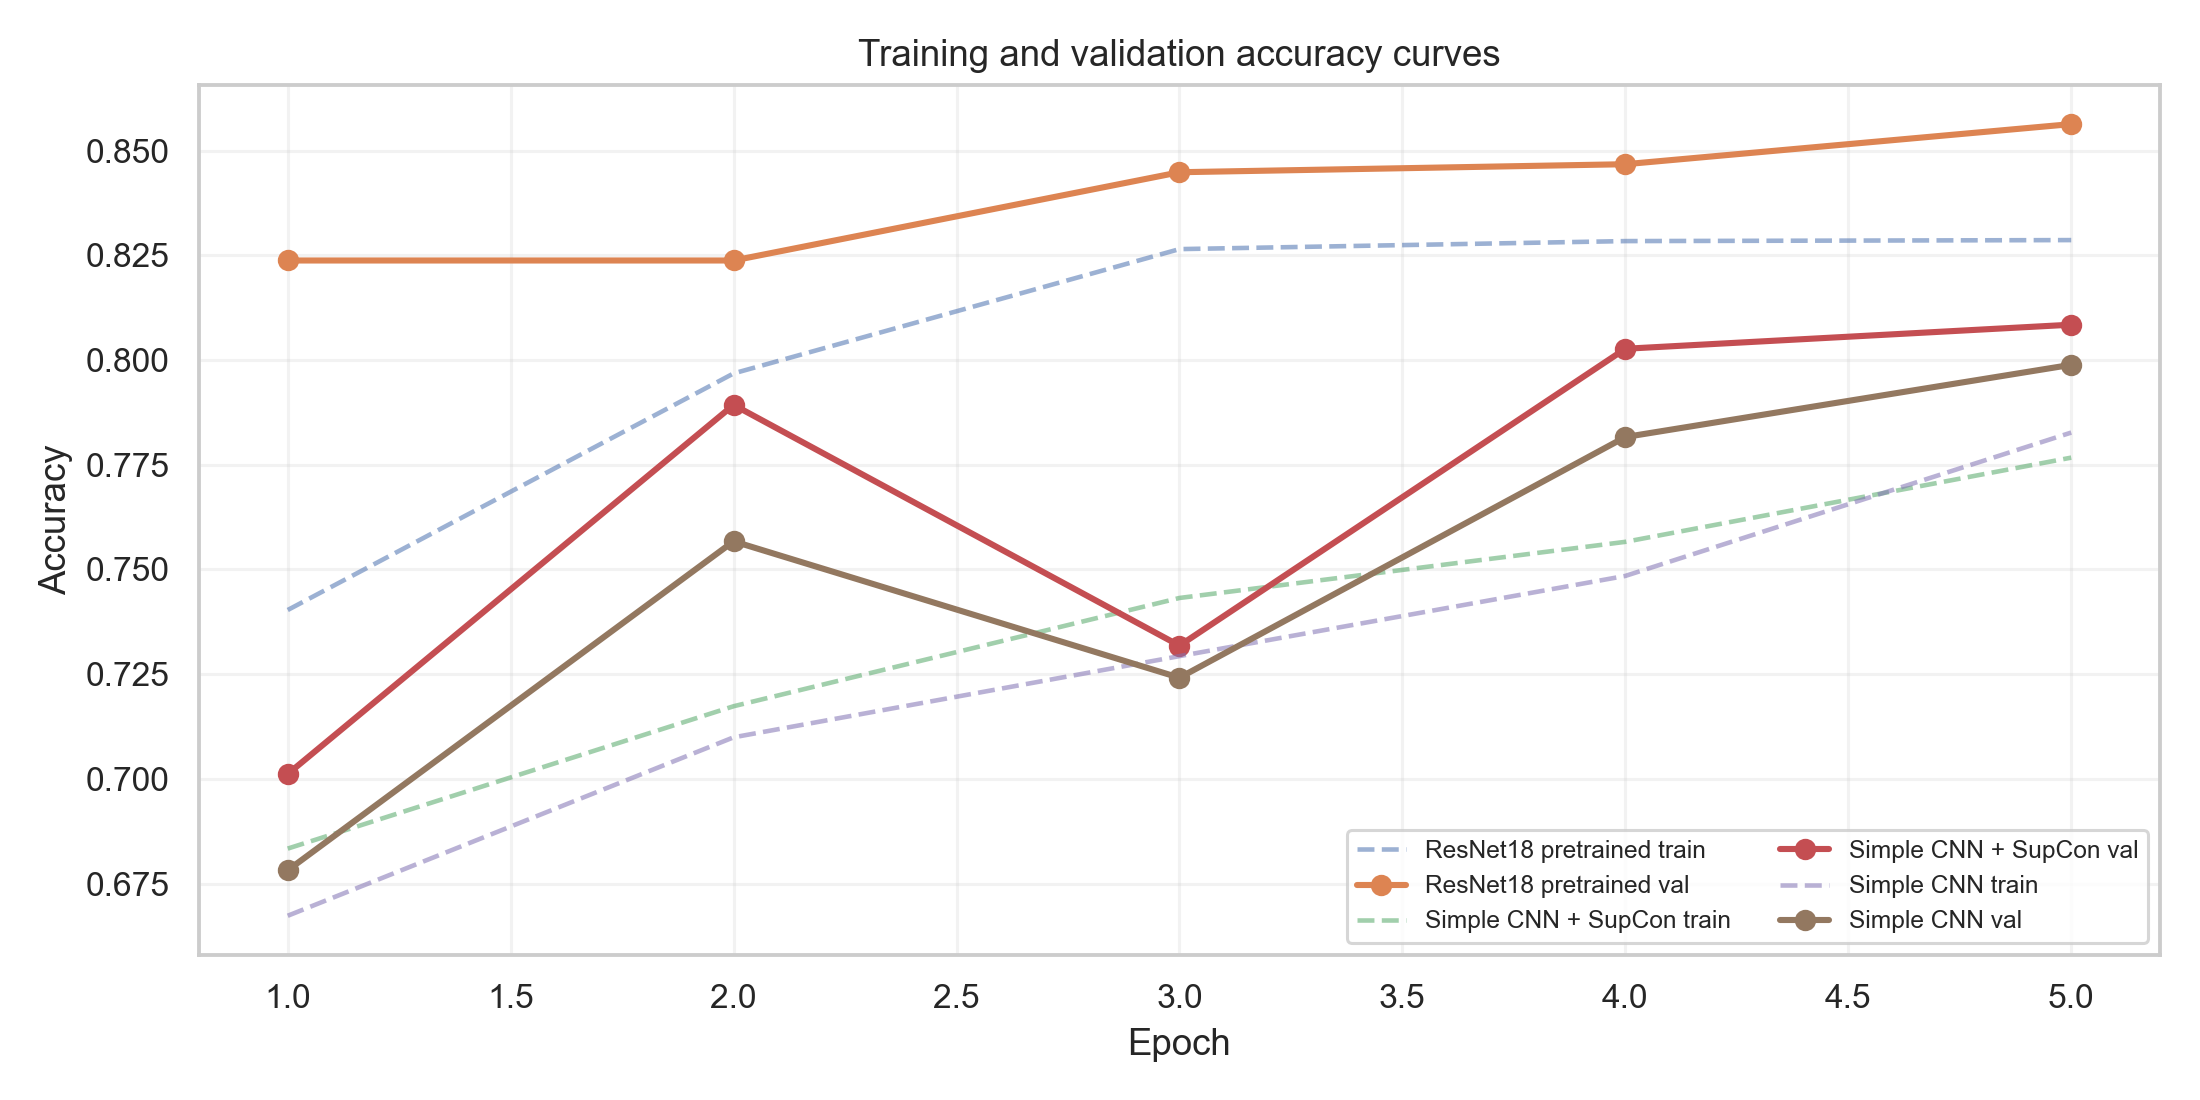
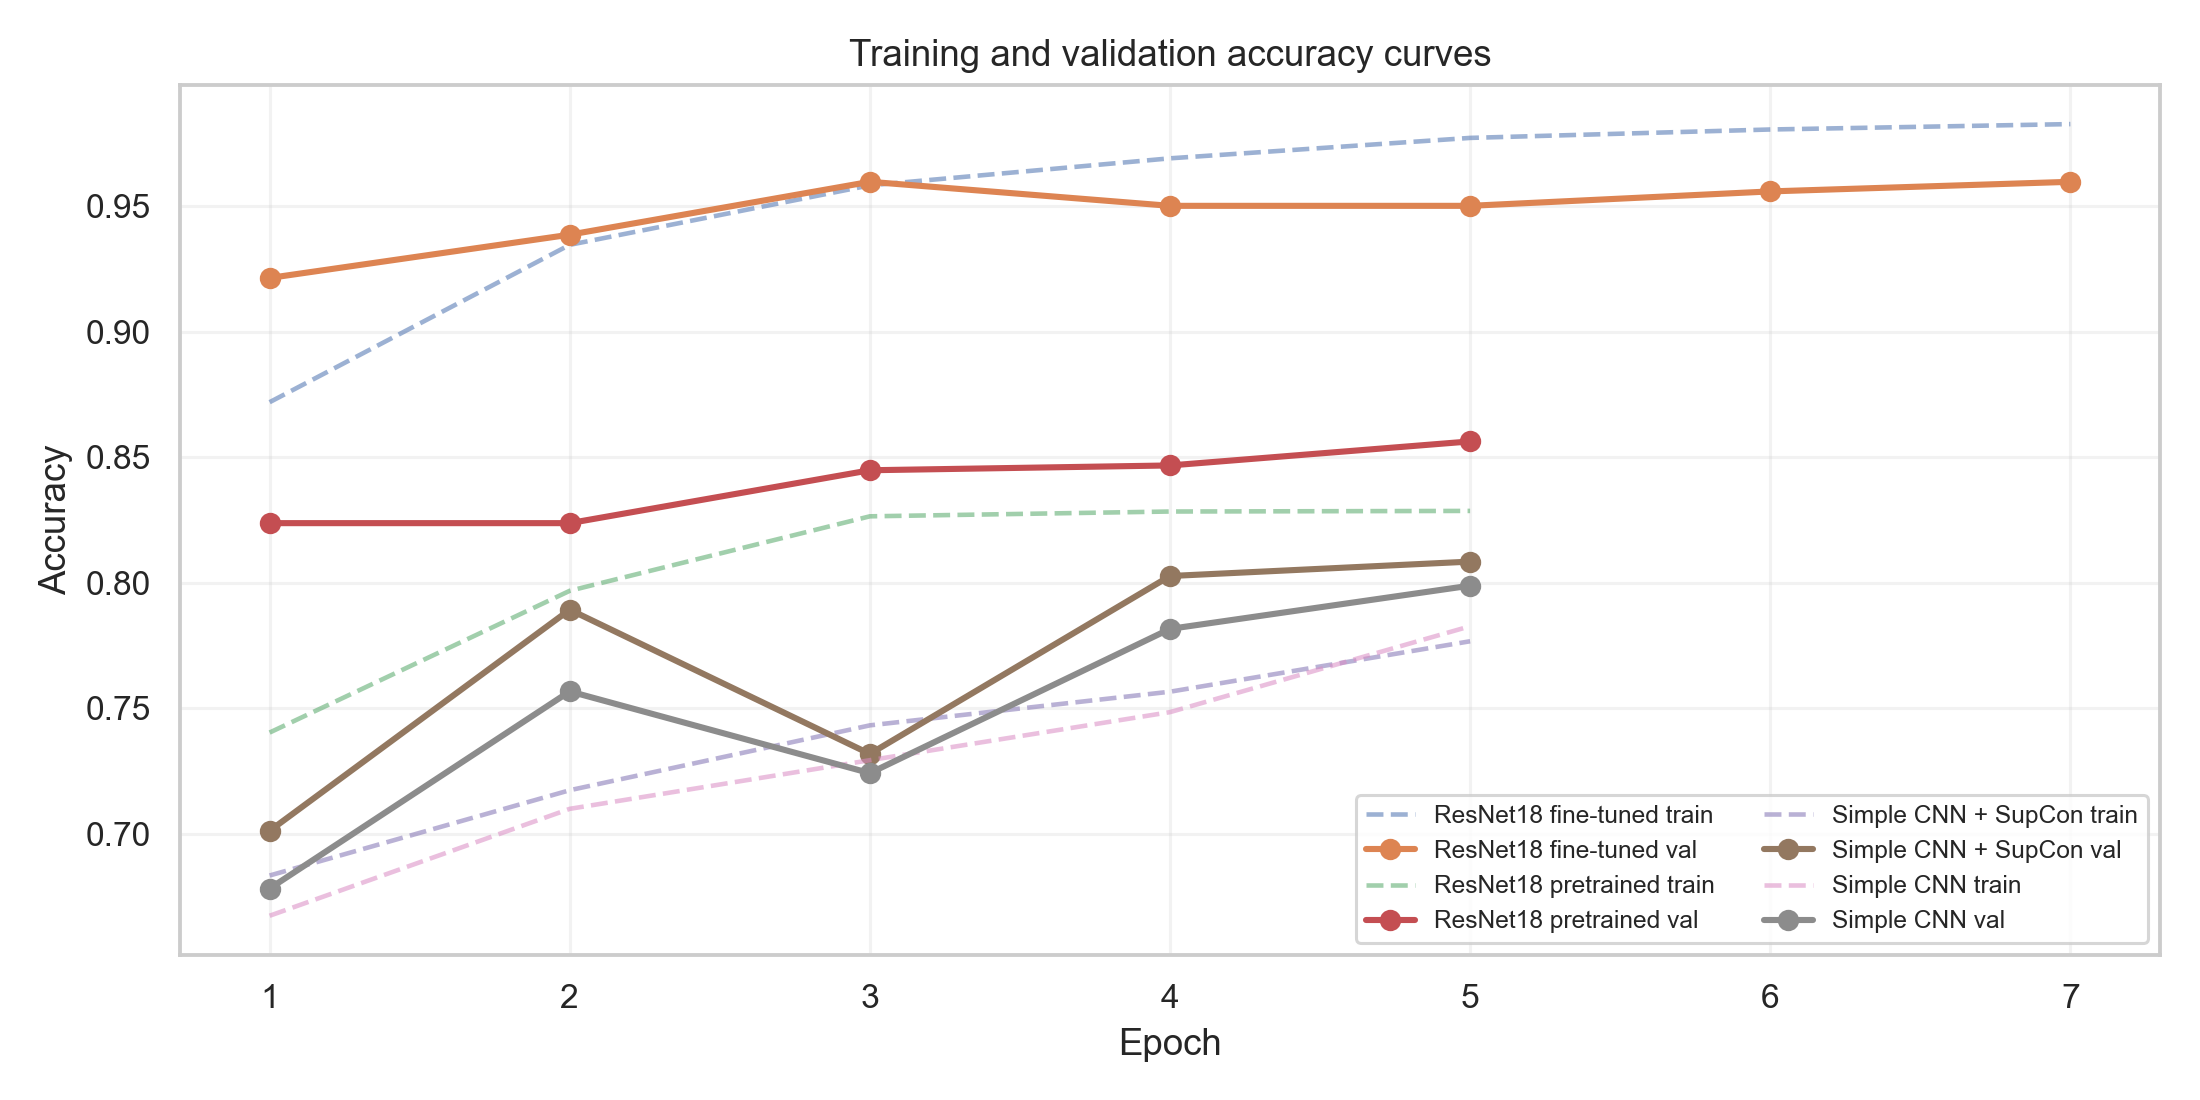
FineTuning

diff --git a/src/train_classifier.py b/src/train_classifier.py
@@ -25,6 +25,12 @@ def parse_args() -> argparse.Namespace:
     parser.add_argument("--model-name", choices=MODEL_NAMES, default="simple_cnn")
     parser.add_argument("--pretrained", action="store_true")
     parser.add_argument("--freeze-backbone", action="store_true")
+    parser.add_argument(
+        "--init-checkpoint",
+        type=Path,
+        default=None,
+        help="Optional classifier checkpoint used to initialize model weights before training.",
+    )
     parser.add_argument("--supcon-checkpoint", type=Path, default=None)
     parser.add_argument("--image-size", type=int, default=224)
     parser.add_argument("--batch-size", type=int, default=32)
@@ -41,6 +47,9 @@ def parse_args() -> argparse.Namespace:
 
 def main() -> None:
     args = parse_args()
+    if args.init_checkpoint is not None and args.supcon_checkpoint is not None:
+        raise ValueError("Use either --init-checkpoint or --supcon-checkpoint, not both.")
+
     set_seed(args.seed)
     device = get_device(args.device)
     dataset_root = find_dataset_root(args.data_dir)
@@ -64,6 +73,11 @@ def main() -> None:
         freeze_backbone=args.freeze_backbone,
         dropout=args.dropout,
     )
+    if args.init_checkpoint is not None:
+        checkpoint = torch.load(args.init_checkpoint, map_location="cpu", weights_only=False)
+        load_result = model.load_state_dict(checkpoint["model_state_dict"], strict=True)
+        print(f"Initialized classifier from {args.init_checkpoint}: {load_result}")
+
     if args.supcon_checkpoint is not None:
         load_result = load_supcon_encoder(model, args.supcon_checkpoint, strict=False)
         print(f"Loaded SupCon encoder from {args.supcon_checkpoint}: {load_result}")
@@ -167,4 +181,3 @@ def main() -> None:
 
 if __name__ == "__main__":
     main()
-

diff --git a/result/make_summary_plots.py b/result/make_summary_plots.py
@@ -27,6 +27,7 @@ DISPLAY_NAMES = {
     "simple_cnn_128_e5": "Simple CNN",
     "simple_cnn_supcon_finetune_128_e5": "Simple CNN + SupCon",
     "resnet18_pretrained_frozen_128_e5": "ResNet18 pretrained",
+    "resnet18_unfrozen_from_frozen_lr3e-5_128_e8": "ResNet18 fine-tuned",
 }
 
 
@@ -125,7 +126,7 @@ def plot_val_test_accuracy(summary: pd.DataFrame, output_dir: Path) -> Path:
     axis.set_title("Validation-to-test comparison")
     axis.set_xlabel("")
     axis.set_ylabel("Accuracy")
-    axis.set_ylim(0.72, 0.92)
+    axis.set_ylim(0.72, 1.0)
     annotate_bars(axis)
     plt.xticks(rotation=12, ha="right")
     plt.tight_layout()
@@ -281,4 +282,3 @@ def main() -> None:
 
 if __name__ == "__main__":
     main()
-

diff --git a/README.md b/README.md
@@ -1,10 +1,26 @@
 # INDENG 1/242B Spring 2026 Project
 
-This repository contains a food image classification pipeline for the INDENG 1/242B Spring 2026 final project. The project compares a simple CNN baseline, an ImageNet-pretrained ResNet18 transfer learning model, and a supervised contrastive learning workflow. It also includes scripts for EDA, model evaluation, Grad-CAM visual explanations, and report-ready summary plots.
+## Research Overview
+
+This repository implements a reproducible image classification study for the INDENG 1/242B Spring 2026 final project. The task is binary food image classification: given an image, the model predicts whether the food is `healthy` or `unhealthy`.
+
+The study is organized as an incremental experimental pipeline rather than a single model training script. It begins with exploratory data analysis, establishes a simple convolutional neural network baseline, evaluates transfer learning with an ImageNet-pretrained ResNet18 backbone, improves the transfer model through full fine-tuning, and includes a supervised contrastive learning branch for representation learning. The final pipeline also generates evaluation tables, training curves, confusion matrices, ROC curves, and Grad-CAM visual explanations for model interpretability.
+
+The strongest model in the current study is a fully fine-tuned ResNet18 initialized from a frozen-transfer checkpoint. It achieves `0.9406` test accuracy and `0.9845` ROC AUC on the held-out test set.
+
+## Research Questions
+
+This project investigates three practical questions in food image classification:
+
+1. How much performance can be obtained from a small task-specific CNN trained from scratch?
+2. How much does ImageNet transfer learning improve classification performance under the same train/validation/test protocol?
+3. Does further representation adaptation, through either full backbone fine-tuning or supervised contrastive pretraining, improve held-out test performance and provide stronger report-ready evidence?
+
+The experimental design treats the simple CNN as a baseline, the frozen ResNet18 as the primary transfer learning comparison, the fully fine-tuned ResNet18 as the main accuracy-improvement experiment, and the SupCon branch as an additional representation-learning comparison.
 
 ## Dataset
 
-The dataset is expected to use an ImageFolder-style split:
+The dataset is expected to use an ImageFolder-style directory structure:
 
 ```text
 data/
@@ -20,34 +36,126 @@ data/
       unhealthy/
 ```
 
-The scripts automatically search under `data/` for a directory containing `train/`, `val/`, and `test/`. The `data/` directory is intentionally ignored by Git, except for placeholder files.
+The scripts automatically search under `data/` for a directory containing `train/`, `val/`, and `test/` subdirectories. The local dataset used in the current experiments contains `5,222` images:
 
-## Project layout
+| Split | Healthy | Unhealthy | Total |
+| --- | ---: | ---: | ---: |
+| Train | 2,089 | 2,089 | 4,178 |
+| Validation | 261 | 261 | 522 |
+| Test | 261 | 261 | 522 |
+
+The class distribution is balanced in every split, which makes accuracy, macro F1, and weighted F1 directly comparable. The `data/` directory is intentionally ignored by Git, except for placeholder files, because image datasets should not be pushed to the repository.
+
+## Methodology
+
+The project uses PyTorch and torchvision. All major logic is placed in the reusable package `src/food_project/`, while top-level scripts provide explicit experiment entry points.
+
+The modeling workflow includes four main experiments:
+
+1. **Simple CNN baseline**
+   A compact convolutional network trained from scratch. This model establishes the minimum expected performance from task-specific learning without external pretrained features.
+
+2. **Frozen ImageNet-pretrained ResNet18**
+   A ResNet18 backbone initialized with ImageNet weights, with the feature extractor frozen and only the classification head trained. This experiment isolates the value of generic visual representations.
+
+3. **Full ResNet18 fine-tuning**
+   The best frozen ResNet18 checkpoint is used to initialize a second training stage. The backbone is then unfrozen and optimized with a small learning rate (`3e-5`). This tests whether adapting pretrained features to the food dataset improves generalization.
+
+4. **Supervised contrastive pretraining and fine-tuning**
+   A supervised contrastive loss is used to pretrain an encoder with label-aware representation learning. The encoder is then reused for classifier fine-tuning. This provides an alternative representation-learning path for comparison with ImageNet transfer learning.
+
+For evaluation, each trained classifier is assessed on the held-out test split. The summary pipeline reports accuracy, macro F1, weighted F1, ROC AUC, confusion matrices, and training history plots. Grad-CAM is generated for the strongest model to support qualitative interpretability.
+
+## Current Results
+
+The current test-set results are:
+
+| Experiment | Best validation accuracy | Test accuracy | Macro F1 | ROC AUC |
+| --- | ---: | ---: | ---: | ---: |
+| ResNet18 full fine-tune | 0.9598 | 0.9406 | 0.9406 | 0.9845 |
+| ResNet18 pretrained frozen | 0.8563 | 0.8697 | 0.8697 | 0.9344 |
+| Simple CNN + SupCon fine-tune | 0.8084 | 0.8046 | 0.8033 | 0.8813 |
+| Simple CNN baseline | 0.7989 | 0.8027 | 0.8027 | 0.8869 |
+
+The strongest improvement comes from unfreezing and fine-tuning ResNet18 after the frozen-transfer stage. Compared with the frozen ResNet18 model, full fine-tuning improves test accuracy from `0.8697` to `0.9406`, an absolute increase of approximately `7.09` percentage points. The final model also improves ROC AUC from `0.9344` to `0.9845`.
+
+The final ResNet18 fine-tuned model has the following held-out test confusion matrix:
+
+| True class | Predicted healthy | Predicted unhealthy |
+| --- | ---: | ---: |
+| Healthy | 248 | 13 |
+| Unhealthy | 18 | 243 |
+
+This indicates balanced performance across the two classes: healthy recall is `0.9502`, unhealthy recall is `0.9310`, and both class-level F1 scores are approximately `0.94`.
+
+## Generated Research Artifacts
+
+The pipeline creates the following report-ready artifacts:
+
+- EDA outputs: class counts, split summaries, and sample image grids.
+- Training outputs: checkpoints, history CSV files, and per-experiment training curves.
+- Evaluation outputs: metrics JSON files, predictions CSV files, classification reports, confusion matrices, and ROC curves.
+- Interpretability outputs: Grad-CAM visualizations for the strongest model.
+- Summary outputs: an experiment summary table and final plots under `result/summary_plots/`.
+
+The lightweight summary artifacts are kept in Git:
+
+- `result/experiment_summary.csv`
+- `result/experiment_summary.md`
+- `result/summary_plots/`
+
+Large generated folders such as `result/classifier/`, `result/evaluation/`, `result/gradcam/`, and `result/supcon/` are ignored by Git and can be regenerated by running the pipeline.
+
+## Project Layout
 
 - `data/`: local image data, ignored by Git except placeholder files.
 - `result/`: generated outputs. Most experiment folders are ignored by Git; `summary_plots/` and top-level summary files are kept for reporting.
 - `src/food_project/`: shared dataset, model, training, metrics, plotting, checkpointing, and Grad-CAM logic.
 - `src/run_eda.py`: dataset summaries and sample visualizations.
-- `src/train_classifier.py`: simple CNN, pretrained backbone, or SupCon-initialized classifier training.
+- `src/train_classifier.py`: simple CNN, pretrained backbone, checkpoint-initialized, or SupCon-initialized classifier training.
 - `src/pretrain_supcon.py`: supervised contrastive pretraining.
-- `src/evaluate_model.py`: checkpoint evaluation on train/val/test splits.
+- `src/evaluate_model.py`: checkpoint evaluation on train/validation/test splits.
 - `src/make_gradcam.py`: Grad-CAM visual explanations.
 - `src/summarize_results.py`: combines evaluation JSON files and training histories into summary tables.
+- `download_data.sh`: downloads and validates the dataset into `data/`.
 - `setup_environment.sh`: one-command environment setup using `requirements.txt`.
-- `run_full_pipeline.sh`: one-command script that runs EDA, training, evaluation, Grad-CAM, summary tables, and final plots.
+- `run_full_pipeline.sh`: one-command script that runs the full research pipeline.
 - `result/make_summary_plots.py`: creates final report-ready plots from generated summaries.
 
-## Environment
+## Reproducibility
 
-The frozen package requirements are stored in `requirements.txt`. For a fresh machine, set up a local virtual environment from the repository root:
+### Local Requirements
+
+A collaborator needs the following local tools:
+
+- `git`
+- `python3`
+- `curl`
+- `unzip`
+- `bash`
+- internet access for dataset download and, on first use, pretrained ResNet18 weights
+
+The frozen Python package requirements are stored in `requirements.txt`.
+
+### Full Reproduction From a Fresh Clone
+
+From a fresh clone, run the following commands from the repository root:
 
 ```bash
+./download_data.sh
 ./setup_environment.sh
+./run_full_pipeline.sh
 ```
 
-By default, this creates `.venv/` and installs the packages from `requirements.txt`. The full pipeline script automatically uses `.venv/bin/python` when it exists, so collaborators usually do not need to activate it manually.
+The first command downloads the Kaggle dataset zip with `curl`, extracts it into `data/`, and validates that the expected `train/`, `val/`, and `test/` folders exist. The second command creates a local `.venv/` and installs packages from `requirements.txt`. The third command runs the complete experimental workflow from EDA to final summary plots.
 
-If you want to use an existing Python or conda environment instead:
+If a different direct dataset zip URL is needed:
+
+```bash
+DATA_URL=<direct-zip-url> ./download_data.sh
+```
+
+If an existing Python or conda environment should be used instead of `.venv/`:
 
 ```bash
 CREATE_VENV=0 PYTHON_BIN=/path/to/python ./setup_environment.sh
@@ -56,67 +164,50 @@ PYTHON_BIN=/path/to/python ./run_full_pipeline.sh
 
 During development, the project was run in the `nnenv2` environment.
 
-## Full reproduction from a fresh clone
+## Full Pipeline
 
-From a fresh clone, run these commands from the repository root:
-
-```bash
-./download_data.sh
-./setup_environment.sh
-./run_full_pipeline.sh
-```
-
-This is the recommended workflow for collaborators using a different machine or Python environment. The data script downloads the Kaggle dataset zip with `curl`, unzips it into `data/`, and validates that the expected `train/`, `val/`, and `test/` folders exist.
-
-If you need to use a different direct zip URL:
-
-```bash
-DATA_URL=<direct-zip-url> ./download_data.sh
-```
-
-## One-command reproduction
-
-If the environment is already set up, run the full pipeline from the repository root:
+When the environment is already set up, the complete study can be rerun with:
 
 ```bash
 ./run_full_pipeline.sh
 ```
 
-If you want to use a specific Python executable, set `PYTHON_BIN`:
+The script executes:
 
-```bash
-PYTHON_BIN=/Users/littleotter/miniconda3/envs/nnenv2/bin/python ./run_full_pipeline.sh
-```
-
-The script runs:
-
-1. EDA and sample visualizations.
+1. EDA and sample visualization generation.
 2. Simple CNN baseline training.
 3. ImageNet-pretrained frozen ResNet18 training.
-4. Supervised contrastive pretraining.
-5. SupCon-initialized classifier fine-tuning.
-6. Test-set evaluation for all trained classifiers.
-7. Grad-CAM generation for the strongest default model.
-8. Summary tables and report-ready summary plots.
+4. Full ResNet18 fine-tuning from the frozen-transfer checkpoint.
+5. Supervised contrastive pretraining.
+6. SupCon-initialized classifier fine-tuning.
+7. Test-set evaluation for all trained classifiers.
+8. Grad-CAM generation for the strongest model.
+9. Summary table and report plot generation.
 
 Default settings reproduce the current experiment scale:
 
 - `IMAGE_SIZE=128`
 - `CLASSIFIER_EPOCHS=5`
+- `FINETUNE_EPOCHS=8`
+- `FINETUNE_LR=3e-5`
 - `SUPCON_EPOCHS=5`
 - `NUM_WORKERS=0`
 
-You can override these values without editing the script:
+The settings can be changed without editing the script:
 
 ```bash
 CLASSIFIER_EPOCHS=10 SUPCON_EPOCHS=20 ./run_full_pipeline.sh
 ```
 
-The first ResNet18 run may download ImageNet pretrained weights from PyTorch, so internet access may be required once.
+To use a specific Python executable:
 
-## Step-by-step commands
+```bash
+PYTHON_BIN=/path/to/python ./run_full_pipeline.sh
+```
 
-Use these commands if you want to rerun only part of the pipeline.
+## Step-by-Step Experiment Commands
+
+The following commands rerun individual parts of the study.
 
 Run EDA:
 
@@ -136,7 +227,7 @@ python src/train_classifier.py \
   --experiment-name simple_cnn_128_e5
 ```
 
-Train an ImageNet-pretrained ResNet18 transfer learning model:
+Train the ImageNet-pretrained frozen ResNet18 model:
 
 ```bash
 python src/train_classifier.py \
@@ -148,6 +239,21 @@ python src/train_classifier.py \
   --epochs 5 \
   --num-workers 0 \
   --experiment-name resnet18_pretrained_frozen_128_e5
+```
+
+Fine-tune the full ResNet18 model from the frozen-transfer checkpoint:
+
+```bash
+python src/train_classifier.py \
+  --model-name resnet18 \
+  --init-checkpoint result/classifier/resnet18_pretrained_frozen_128_e5/best_model.pt \
+  --image-size 128 \
+  --batch-size 32 \
+  --epochs 8 \
+  --lr 3e-5 \
+  --num-workers 0 \
+  --patience 4 \
+  --experiment-name resnet18_unfrozen_from_frozen_lr3e-5_128_e8
 ```
 
 Run supervised contrastive pretraining:
@@ -189,7 +295,7 @@ Generate Grad-CAM visualizations:
 
 ```bash
 python src/make_gradcam.py \
-  --checkpoint result/classifier/resnet18_pretrained_frozen_128_e5/best_model.pt \
+  --checkpoint result/classifier/resnet18_unfrozen_from_frozen_lr3e-5_128_e8/best_model.pt \
   --split test \
   --num-images 12
 ```
@@ -201,28 +307,12 @@ python src/summarize_results.py
 python result/make_summary_plots.py
 ```
 
-## Current experiment summary
+## Version Control Notes
 
-The latest summary is saved in:
-
-- `result/experiment_summary.csv`
-- `result/experiment_summary.md`
-- `result/summary_plots/`
-
-Current test-set results:
-
-| Experiment | Best validation accuracy | Test accuracy | Macro F1 | ROC AUC |
-| --- | ---: | ---: | ---: | ---: |
-| ResNet18 pretrained frozen | 0.8563 | 0.8697 | 0.8697 | 0.9344 |
-| Simple CNN + SupCon fine-tune | 0.8084 | 0.8046 | 0.8033 | 0.8813 |
-| Simple CNN baseline | 0.7989 | 0.8027 | 0.8027 | 0.8869 |
-
-## Git notes
-
-Large local artifacts are ignored:
+The repository is configured so that large local artifacts are not committed:
 
 - `data/`
 - model checkpoints
 - detailed experiment folders such as `result/classifier/`, `result/evaluation/`, `result/gradcam/`, and `result/supcon/`
 
-The repository keeps only lightweight summary tables, summary plots, and source code needed to reproduce the pipeline.
+The repository keeps only the source code, reproducibility scripts, summary tables, and summary plots needed to understand and regenerate the research workflow.

diff --git a/result/experiment_summary.md b/result/experiment_summary.md
@@ -1,5 +1,6 @@
 | experiment | split | best_val_acc | test_accuracy | macro_f1 | weighted_f1 | roc_auc | metrics_path |
 | --- | --- | --- | --- | --- | --- | --- | --- |
+| resnet18_unfrozen_from_frozen_lr3e-5_128_e8 | test | 0.9598 | 0.9406 | 0.9406 | 0.9406 | 0.9845 | /Users/littleotter/Desktop/I242BProject/result/evaluation/resnet18_unfrozen_from_frozen_lr3e-5_128_e8/test_20260507_181648/metrics.json |
 | resnet18_pretrained_frozen_128_e5 | test | 0.8563 | 0.8697 | 0.8697 | 0.8697 | 0.9344 | /Users/littleotter/Desktop/I242BProject/result/evaluation/resnet18_pretrained_frozen_128_e5/test_20260506_180249/metrics.json |
 | simple_cnn_supcon_finetune_128_e5 | test | 0.8084 | 0.8046 | 0.8033 | 0.8033 | 0.8813 | /Users/littleotter/Desktop/I242BProject/result/evaluation/simple_cnn_supcon_finetune_128_e5/test_20260506_180249/metrics.json |
 | simple_cnn_128_e5 | test | 0.7989 | 0.8027 | 0.8027 | 0.8027 | 0.8869 | /Users/littleotter/Desktop/I242BProject/result/evaluation/simple_cnn_128_e5/test_20260506_180249/metrics.json |
